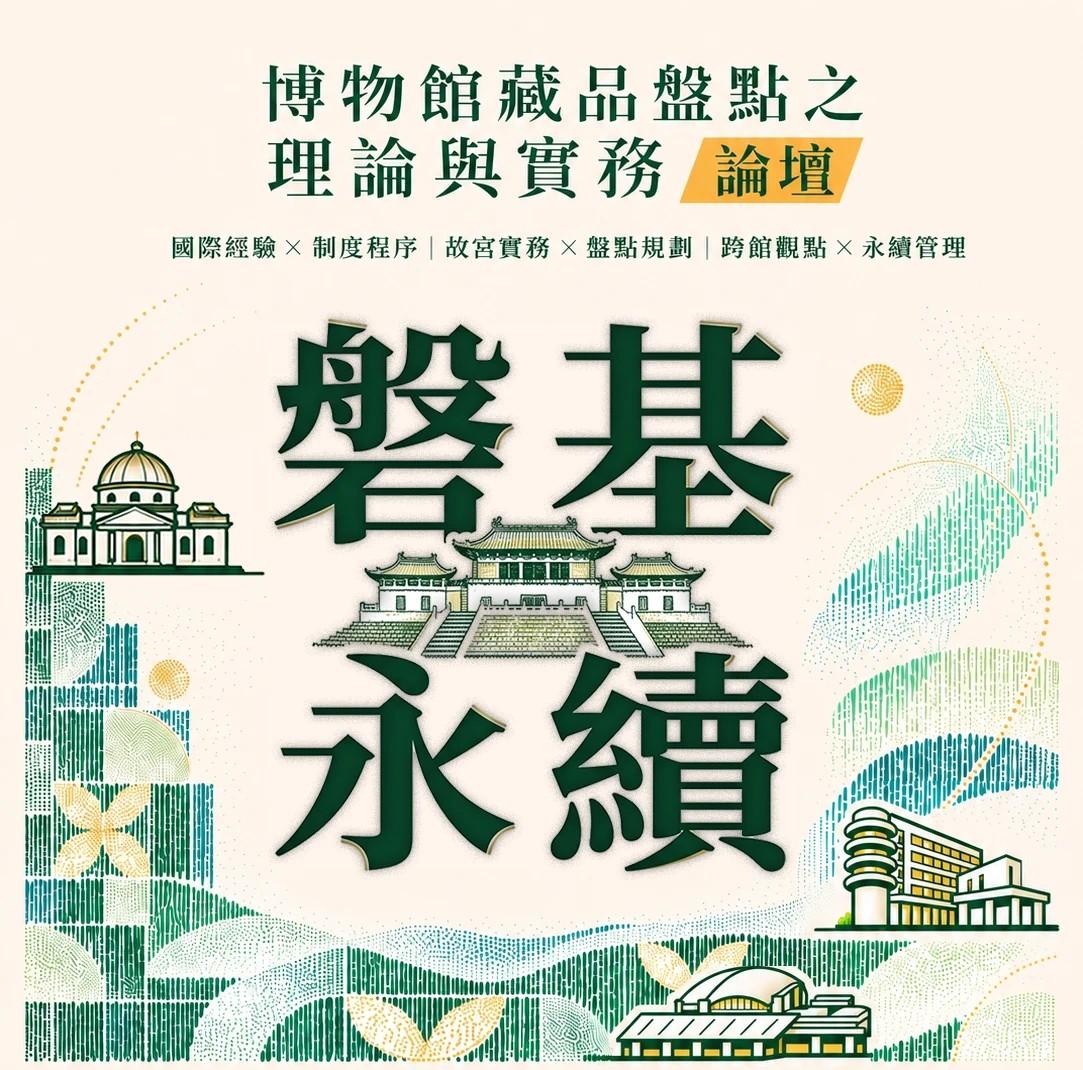
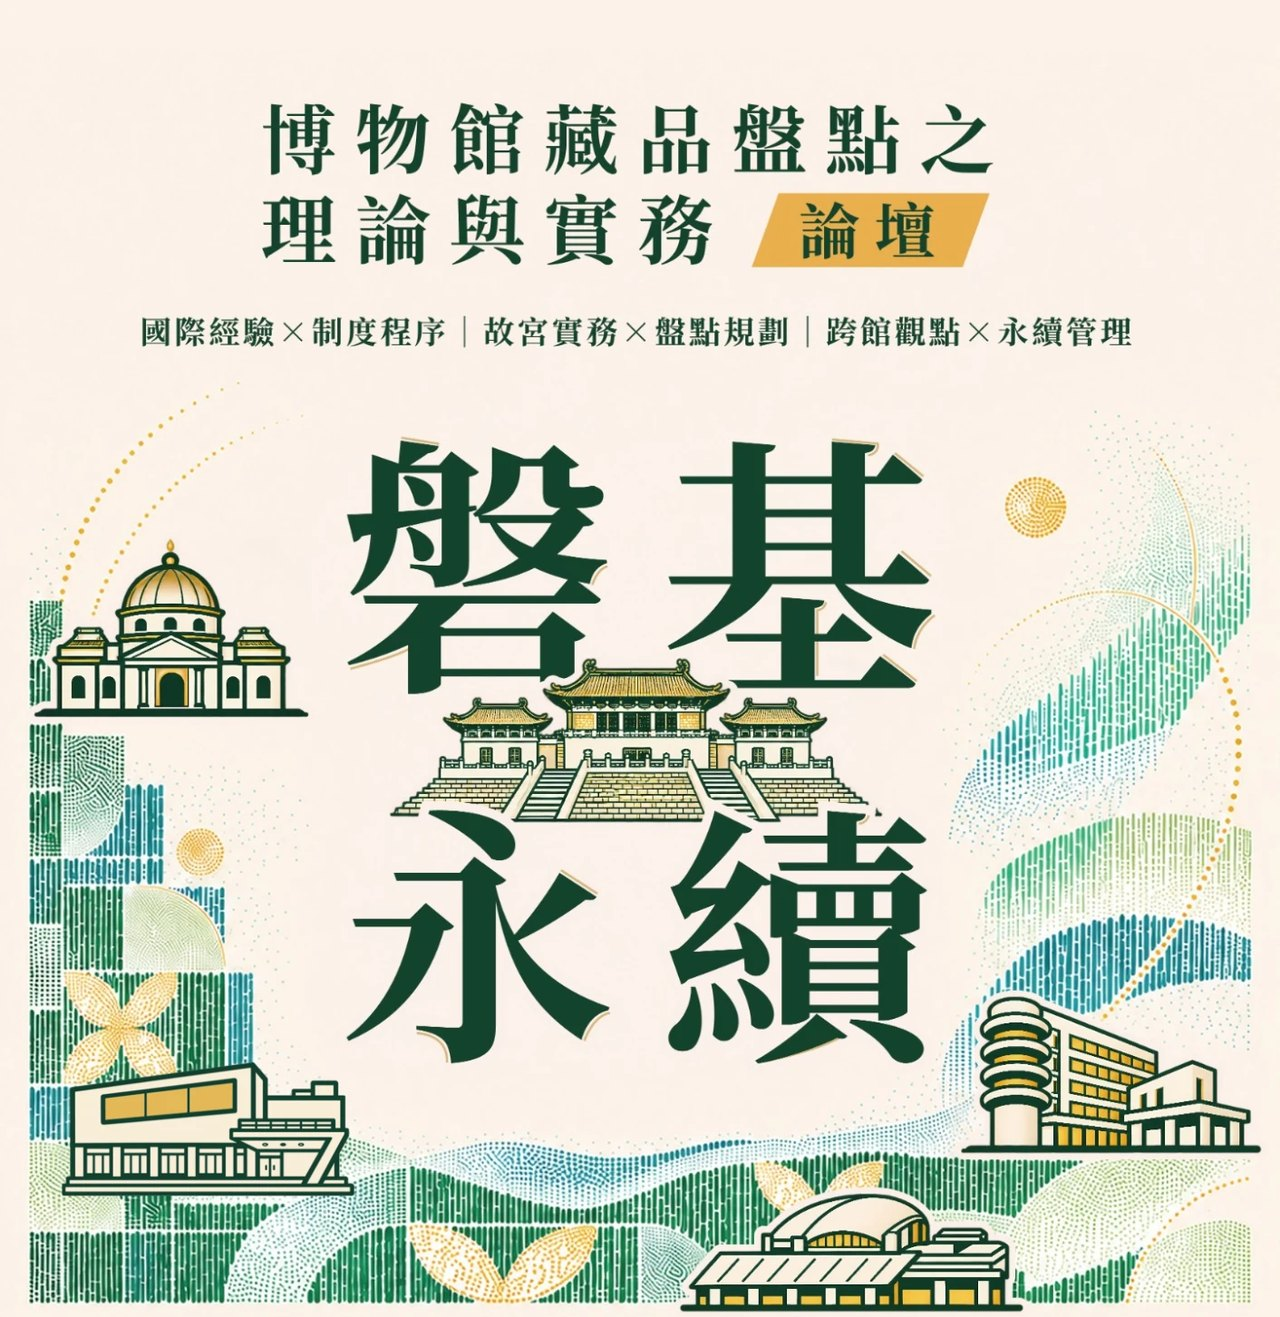
更新主視覺與分享縮圖

diff --git a/panji/index.html b/panji/index.html
@@ -9,7 +9,7 @@
 <meta property="og:title" content="「磐基永續－博物館藏品盤點之理論與實務」論壇線上報名">
 <meta property="og:description" content="2026 年 12 月 7 日（一）14:00–16:30，國立故宮博物院第一展覽館 B1 多媒體放映室。報名期間 11 月 23 日 12:00 至 11 月 30 日 12:00，免費參加。">
 <meta property="og:url" content="https://mycase99.com/panji/">
-<meta property="og:image" content="https://mycase99.com/panji/assets/share.jpg">
+<meta property="og:image" content="https://mycase99.com/panji/assets/share-2.jpg">
 <meta property="og:image:width" content="1200">
 <meta property="og:image:height" content="630">
 <meta name="twitter:card" content="summary_large_image">
@@ -99,7 +99,7 @@
   /* 首屏：主視覺＋活動摘要 */
   .sr { position: absolute; width: 1px; height: 1px; overflow: hidden; clip-path: inset(50%); white-space: nowrap; }
   .hero { margin-top: 14px; padding-inline: var(--gutter); }
-  .kv { border: 1.5px solid var(--pine-deep); background: #fff5ec; }
+  .kv { border: 1.5px solid var(--pine-deep); background: #fdf2ea; }
   .kv img { display: block; width: 100%; height: auto; }
   .brief { margin-top: 20px; padding-top: 20px; border-top: 3px dotted var(--pine); }
   .when { display: flex; flex-wrap: wrap; align-items: center; gap: 10px 18px; }
@@ -313,7 +313,7 @@
 
 <header class="hero">
   <h1 class="sr">「磐基永續－博物館藏品盤點之理論與實務」論壇</h1>
-  <div class="kv"><img src="assets/kv.jpg" width="1083" height="1070" alt="論壇主視覺：綠色與金色點描的色塊、波紋與葉片，四座博物館建築線畫，中央是「磐基永續」四個大字，上方標題為「博物館藏品盤點之理論與實務論壇」，副標為國際經驗×制度程序、故宮實務×盤點規劃、跨館觀點×永續管理。"></div>
+  <div class="kv"><img src="assets/kv.jpg" width="1280" height="1317" alt="論壇主視覺：綠色與金色點描的色塊、波紋與葉片，五座博物館建築線畫，中央是「磐基永續」四個大字，上方標題為「博物館藏品盤點之理論與實務論壇」，副標為國際經驗×制度程序、故宮實務×盤點規劃、跨館觀點×永續管理。"></div>
   <div class="brief">
     <p class="when"><span class="chip">2026.12.07<small>（一）</small></span><span class="hours"><span class="nb">13:30 報到</span><span class="nb">14:00–16:30 論壇</span></span></p>
     <dl class="facts">
